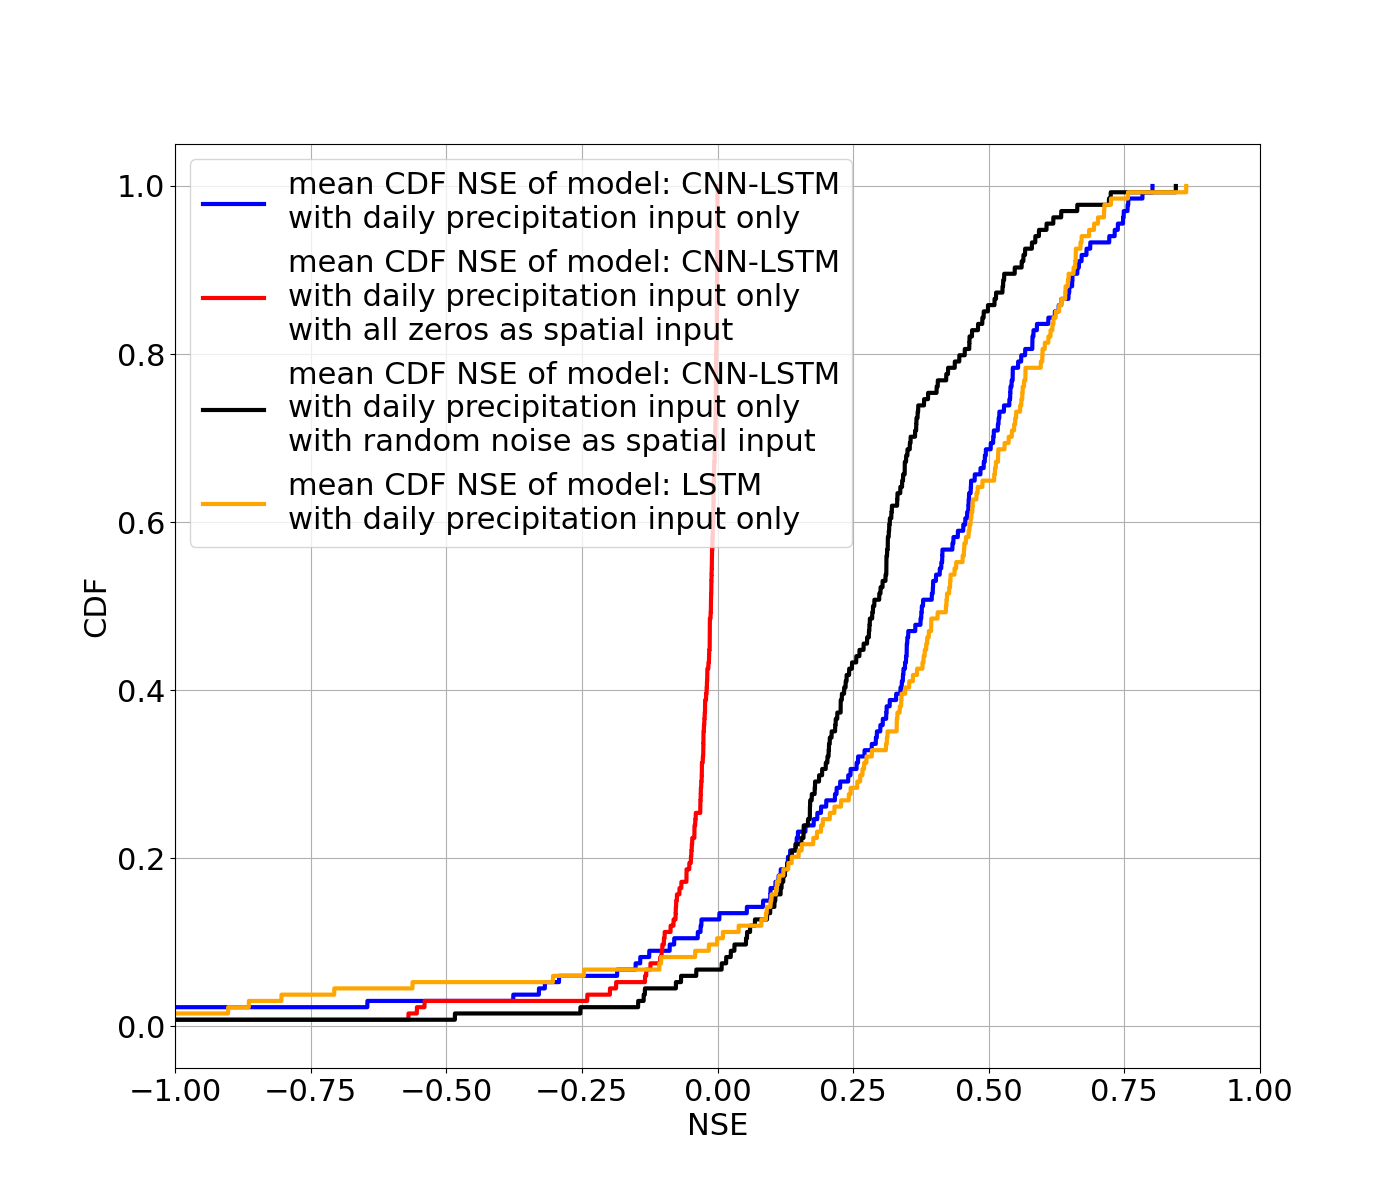
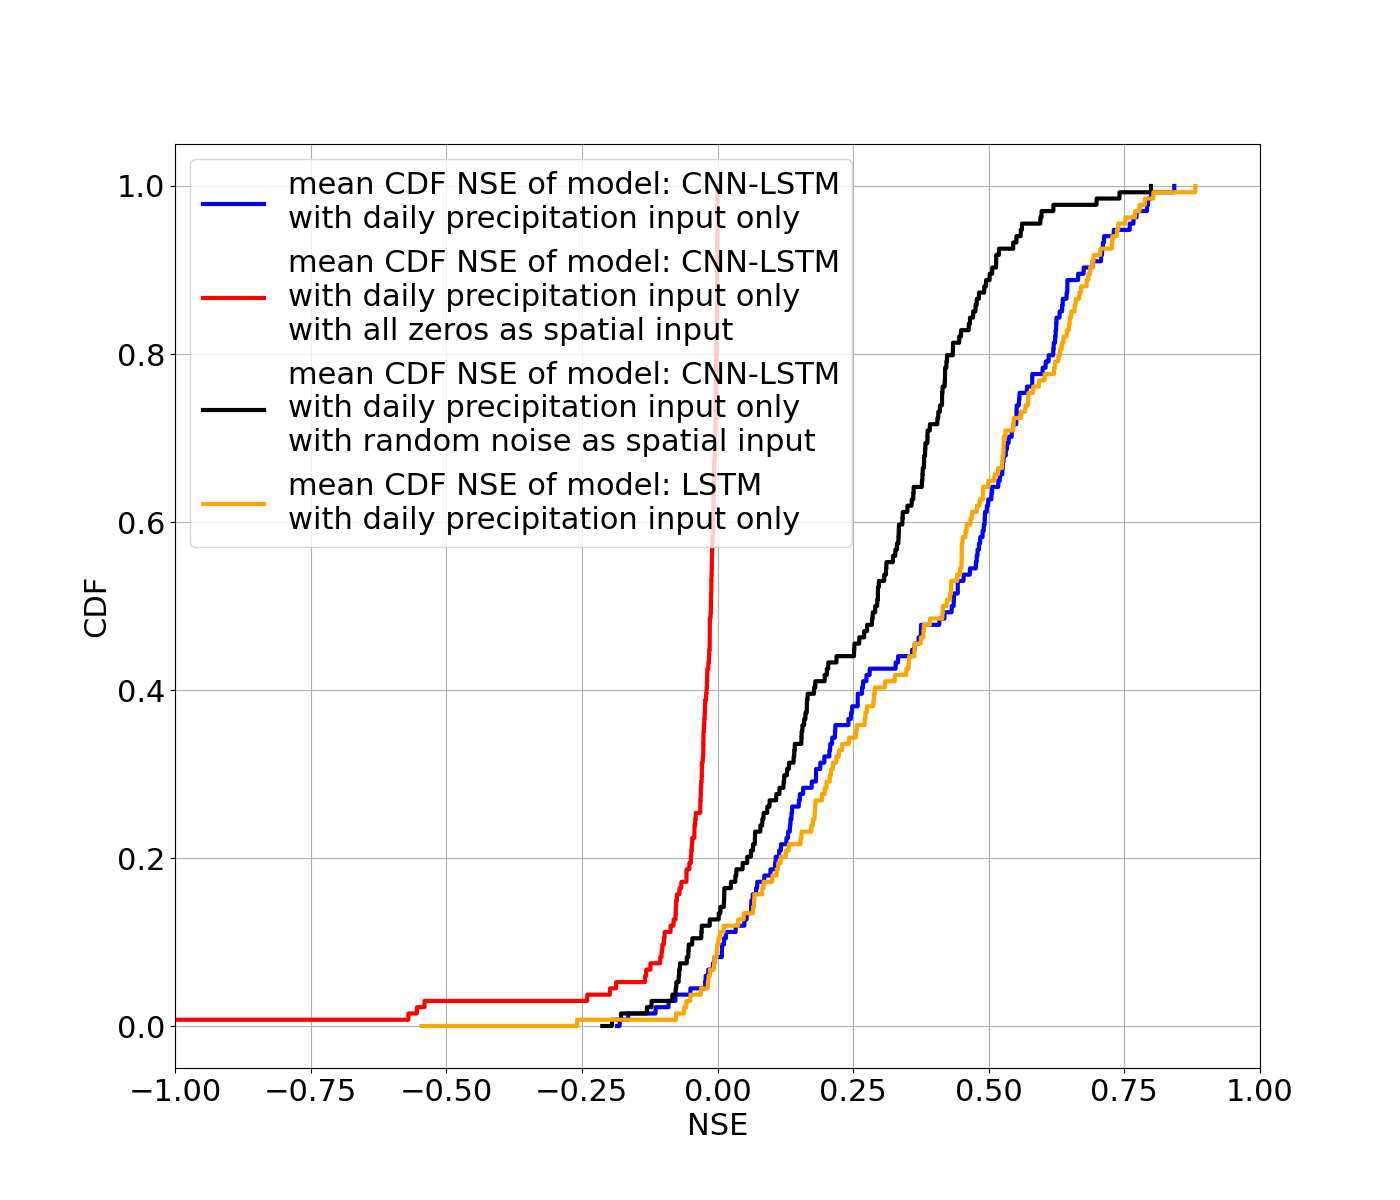
adding exception to FloodML_runner.py

Changed region(s): [[0.1229, 0.1542, 0.86, 0.8633]]

diff --git a/src/create_CDF_NSE_comparison_plot_from_slurm_output.py b/src/create_CDF_NSE_comparison_plot_from_slurm_output.py
@@ -219,7 +219,7 @@ def plot_NSE_CDF_graphs_average(params_dicts, model_names, dict_avg_runs_from_al
 
 def plot_NSE_CDF_graphs_my_code(ablation_study=False, stage="validation"):
     if ablation_study:
-        input_file_names = ["slurm-19089603.out", "slurm-19100407.out", "slurm-19185354.out", "slurm-19128144.out"]
+        input_file_names = ["slurm-19197541.out", "slurm-19197595.out", "slurm-19197481.out", "slurm-19128144.out"]
     else:
         input_file_names = ["slurm-19196745.out", "slurm-19196063.out", "slurm-19196755.out"]
         # input_file_names = ["slurm-19195517.out", "slurm-19195949.out", "slurm-19195809.out"]
@@ -286,4 +286,4 @@ def plot_CDF_NSE_basins(nse_losses_np, params_tuple, model_name, plot_color, plo
 
 
 if __name__ == "__main__":
-    plot_NSE_CDF_graphs_my_code(ablation_study=False, stage="test")
+    plot_NSE_CDF_graphs_my_code(ablation_study=True, stage="test")

diff --git a/src/FloodML_runner.py b/src/FloodML_runner.py
@@ -1068,10 +1068,12 @@ def main():
     if args["spatial_data"]:
         if args["spatial_data"] == "random_noise":
             args["use_random_noise_in_spatial_data"] = True
-        if args["spatial_data"] == "zeros":
+        elif args["spatial_data"] == "zeros":
             args["use_zeros_in_spatial_data"] = True
-        if args["spatial_data"] == "mean_value":
+        elif args["spatial_data"] == "mean_value":
             args["use_mean_value_in_spatial_data"] = True
+        else:
+            raise Exception(f"Wrong selection of spatial data value in yaml: {args['spatial_data']}")
 
     params_dict_from_args = {k: args[k] for k in PARAMS_NAMES_TO_CHECK}
     if args["dataset"] == "CAMELS":
